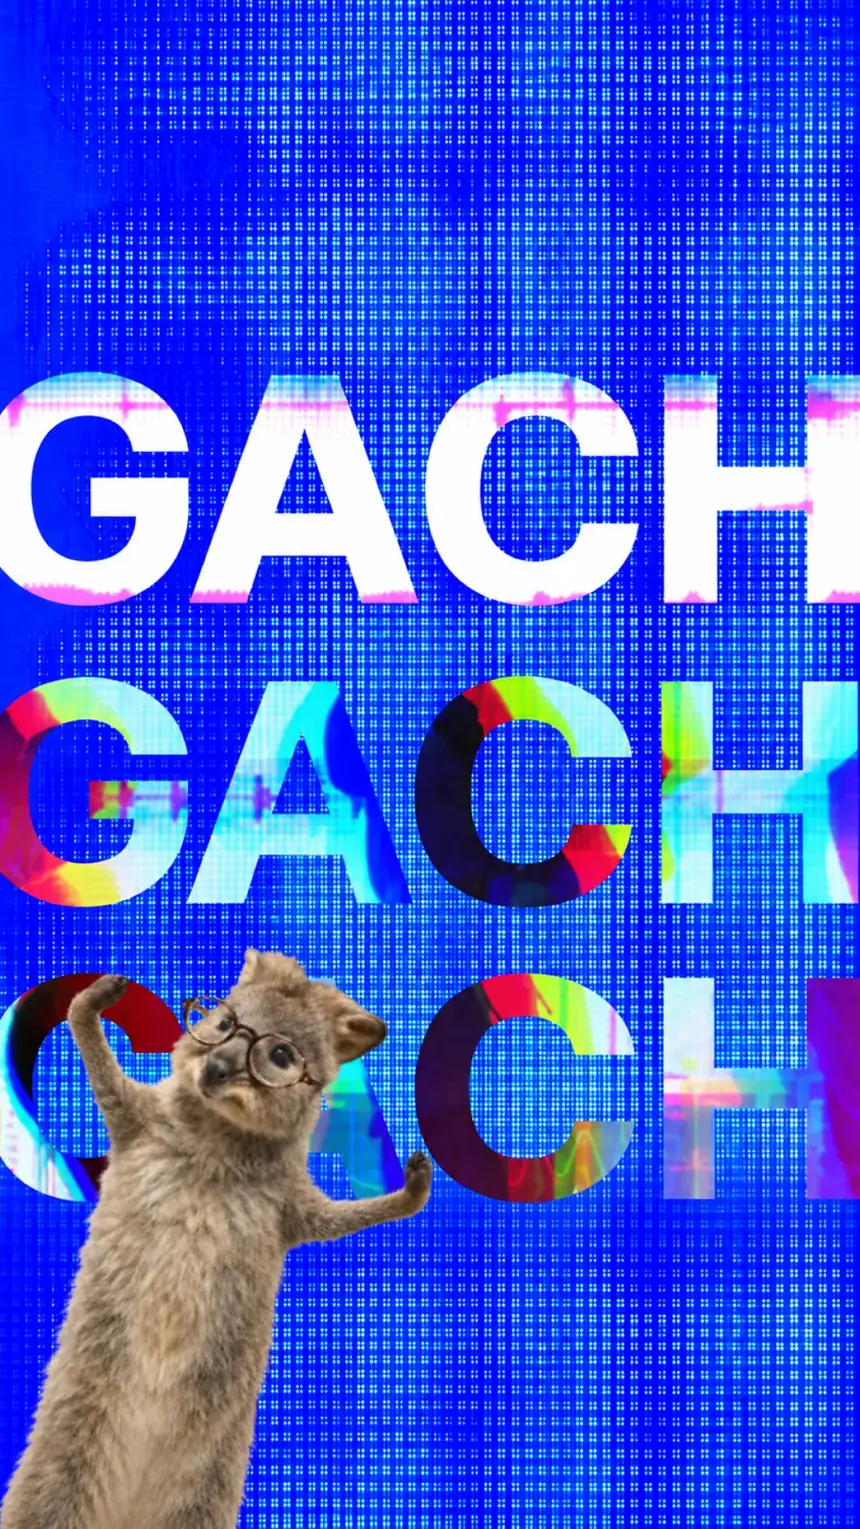
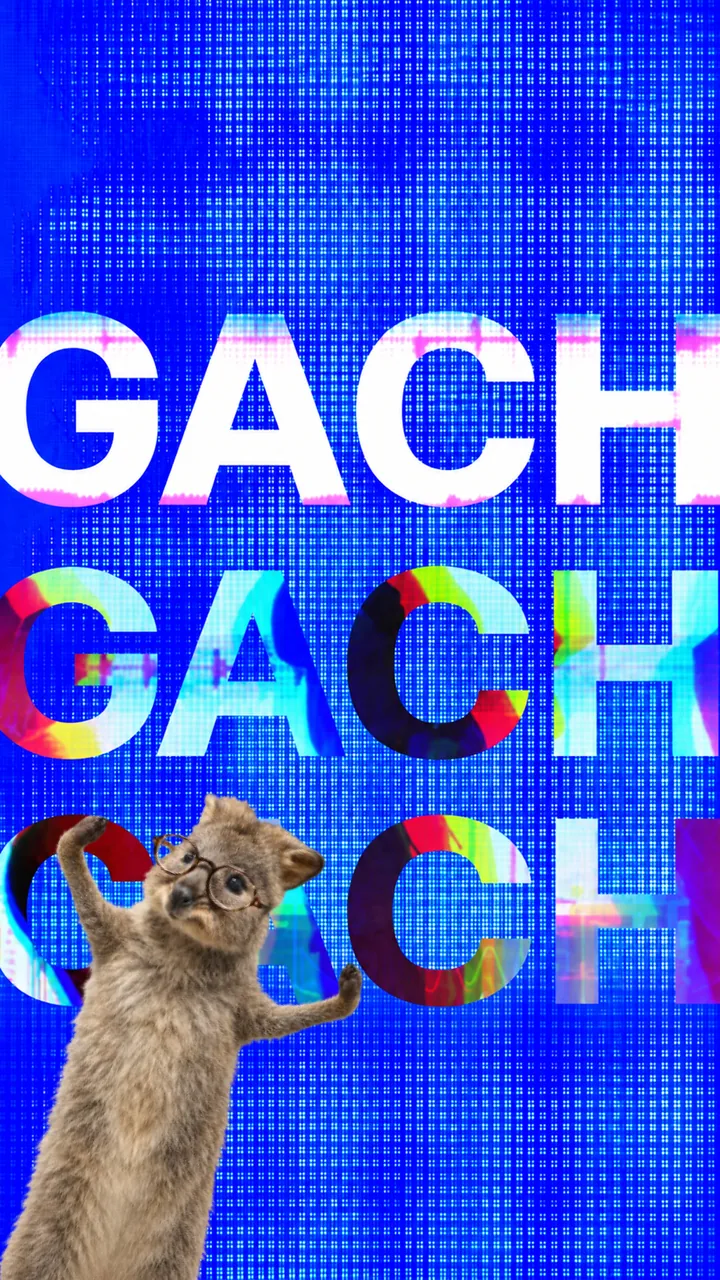
Серия Антохи, обложка GACH из оригинала, карточка без стека
- в окне проекта убраны стек и описание, остаётся название и год
- «Антоха МС» — не ролик, а серия из семи кадров: на плитке «7 кадров»,
  кадры сменяются на наведении и листаются в карусели
- обложка GACH пересобрана из оригинала 1920×3412 вместо копии из чата
- светодиодная сетка и карандашный фон почти не жмутся: им отданы
  720–900px при честном качестве вместо 1100px в кашу

diff --git a/en/index.html b/en/index.html
@@ -1623,9 +1623,8 @@ function wireCarousel(root, total) {
 const modal = document.getElementById('modal'), mMedia = document.getElementById('mMedia');
 function openModal(w) {
   document.getElementById('mTitle').textContent = t(w.title);
-  document.getElementById('mDesc').textContent = t(w.desc);
   /* строки показываем всегда — это каркас карточки, а не необязательные поля */
-  const rows = [[L.stack, w.stack], [L.year, w.year]]
+  const rows = [[L.year, w.year]]
     .map(([k, v]) => `<div class="meta__row"><span class="meta__k">${k[LANG]}</span><span>${t(v) || '—'}</span></div>`);
   document.getElementById('mMeta').innerHTML = rows.join('');
   const [aw, ah] = String(w.ratio).split(/[:/]/).map(Number);

diff --git a/index.html b/index.html
@@ -1648,9 +1648,8 @@ function wireCarousel(root, total) {
 const modal = document.getElementById('modal'), mMedia = document.getElementById('mMedia');
 function openModal(w) {
   document.getElementById('mTitle').textContent = t(w.title);
-  document.getElementById('mDesc').textContent = t(w.desc);
   /* строки показываем всегда — это каркас карточки, а не необязательные поля */
-  const rows = [[L.stack, w.stack], [L.year, w.year]]
+  const rows = [[L.year, w.year]]
     .map(([k, v]) => `<div class="meta__row"><span class="meta__k">${k[LANG]}</span><span>${t(v) || '—'}</span></div>`);
   document.getElementById('mMeta').innerHTML = rows.join('');
   const [aw, ah] = String(w.ratio).split(/[:/]/).map(Number);
